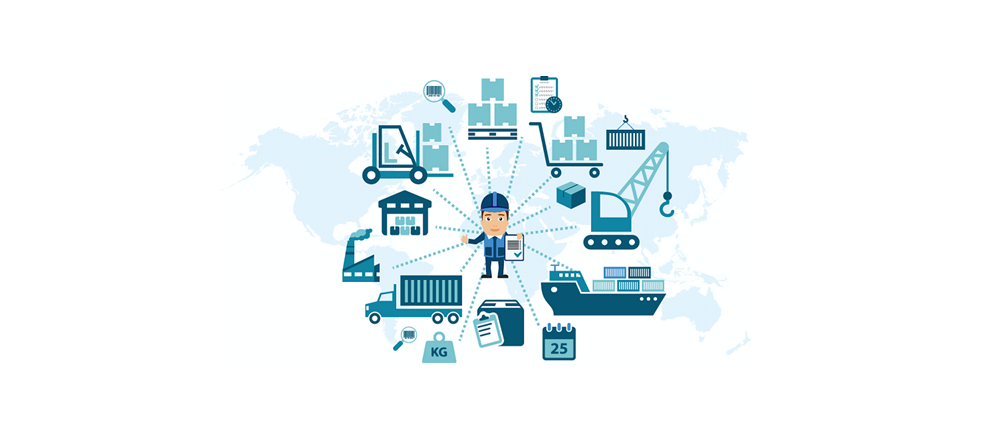
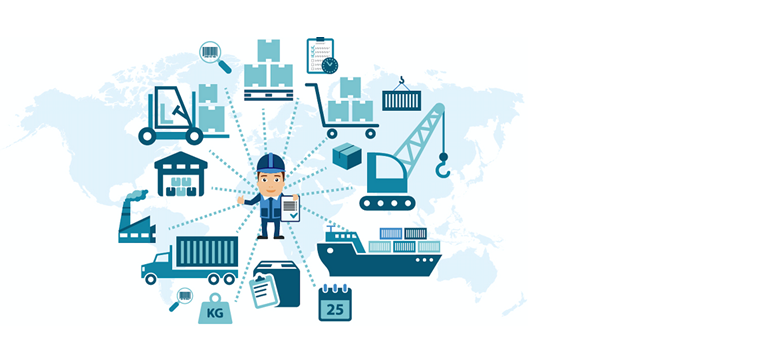
Cambio tamaño imagen de nosotros, cambio de imagen de servicios, cambio tamaño iconos proyecto

Changed region(s): [[0.03, 0.0872, 0.7507, 0.9593], [0.6606, 0.8721, 0.6906, 0.9012]]

diff --git a/proyectos.html b/proyectos.html
@@ -228,45 +228,45 @@
                 </div>
                 <div class="row text-center mt-5">
                     <div class=" col-md-4 mb-4 d-flex flex-column align-items-center number-box">
-                        <img src="assets/images/iconos/1.png" alt="Diseño Estructural" class="img-fluid w-25">
+                        <img src="assets/images/iconos/1.png" alt="Diseño Estructural" class="img-fluid" style="width: 70px; height: 70px;">
                         <h5 class="text-white mt-3 text-center">DISEÑO ESTRUCTURAL</h5>
                     </div>
                     <div class=" col-md-4 mb-4 d-flex flex-column align-items-center number-box">
-                        <img src="assets/images/iconos/11.png" alt="Revisión de Diseño" class="img-fluid w-25">
+                        <img src="assets/images/iconos/11.png" alt="Revisión de Diseño" class="img-fluid" style="width: 70px; height: 70px;">
                         <h5 class="text-white mt-3 text-center">REVISIÓN DE DISEÑO</h5>
                     </div>
                     <div class=" col-md-4 mb-4 d-flex flex-column align-items-center number-box">
-                        <img src="assets/images/iconos/3.png" alt="Pruebas de Carga" class="img-fluid w-25">
+                        <img src="assets/images/iconos/3.png" alt="Pruebas de Carga" class="img-fluid" style="width: 70px; height: 70px;">
                         <h5 class="text-white mt-3 text-center">PRUEBAS DE CARGA</h5>
                     </div>
                 </div>
         
                 <div class="row text-center mt-4">
                     <div class=" col-md-4 mb-4 d-flex flex-column align-items-center number-box">
-                        <img src="assets/images/iconos/4.png" alt="Prototipos y Aprobación" class="img-fluid w-25">
+                        <img src="assets/images/iconos/4.png" alt="Prototipos y Aprobación" class="img-fluid" style="width: 70px; height: 70px;">
                         <h5 class="text-white mt-3 text-center">PROTOTIPOS Y APROBACIÓN FABRICACIÓN</h5>
                     </div>
                     <div class=" col-md-4 mb-4 d-flex flex-column align-items-center number-box">
-                        <img src="assets/images/iconos/5.png" alt="Supervisión en Fábrica y FAT" class="img-fluid w-25">
+                        <img src="assets/images/iconos/5.png" alt="Supervisión en Fábrica y FAT" class="img-fluid" style="width: 70px; height: 70px;">
                         <h5 class="text-white mt-3 text-center">SUPERVISIÓN EN FÁBRICA Y FAT</h5>
                     </div>
                     <div class=" col-md-4 mb-4 d-flex flex-column align-items-center number-box">
-                        <img src="assets/images/iconos/6.png" alt="Control Logístico" class="img-fluid w-25">
+                        <img src="assets/images/iconos/6.png" alt="Control Logístico" class="img-fluid" style="width: 70px; height: 70px;">
                         <h5 class="text-white mt-3 text-center">CONTROL LOGÍSTICO</h5>
                     </div>
                 </div>
         
                 <div class="row text-center mt-4">
                     <div class=" col-md-4 mb-4 d-flex flex-column align-items-center number-box">
-                        <img src="assets/images/iconos/7.png" alt="Recepción y Manejo de Patio" class="img-fluid w-25">
+                        <img src="assets/images/iconos/7.png" alt="Recepción y Manejo de Patio" class="img-fluid" style="width: 70px; height: 70px;">
                         <h5 class="text-white mt-3 text-center">RECEPCIÓN, MANEJO DE PATIO Y ENTREGAS</h5>
                     </div>
                     <div class=" col-md-4 mb-4 d-flex flex-column align-items-center number-box">
-                        <img src="assets/images/iconos/8.png" alt="Pruebas Tipo Materiales" class="img-fluid w-25">
+                        <img src="assets/images/iconos/8.png" alt="Pruebas Tipo Materiales" class="img-fluid" style="width: 70px; height: 70px;">
                         <h5 class="text-white mt-3 text-center">PRUEBAS TIPO MATERIALES</h5>
                     </div>
                     <div class=" col-md-4 mb-4 d-flex flex-column align-items-center number-box">
-                        <img src="assets/images/iconos/9.png" alt="Auditoría Fábricas" class="img-fluid w-25">
+                        <img src="assets/images/iconos/9.png" alt="Auditoría Fábricas" class="img-fluid" style="width: 70px; height: 70px;">
                         <h5 class="text-white mt-3 text-center">AUDITORÍA FÁBRICAS</h5>
                     </div>
                 </div>
@@ -708,7 +708,7 @@
                     <div class="col-12 col-sm-6 isotope-item img-gallery" data-filters="branding">
                         <a class="card card-portfolio card-overlay card-hover-appearance text-white text-center card-image-md" onclick="openFulImg(this.querySelector('img').src)">
                             <span class="card-img" style="position: relative;">
-                                <img class="proyecto-img" src="assets/images/Proyectos/404.jpg" alt="">
+                                <img class="proyecto-img" src="assets/images/Proyectos/8/1.jpg" alt="">
                                 <span class="background-color" style="background-color: rgba(14, 14, 14, 0.7);"></span>
                                 
                             </span>
@@ -747,7 +747,7 @@
                     <div class="col-12 col-sm-6 isotope-item img-gallery" data-filters="branding">
                         <a class="card card-portfolio card-overlay card-hover-appearance text-white text-center card-image-md" onclick="openFulImg(this.querySelector('img').src)">
                             <span class="card-img" style="position: relative;">
-                                <img class="proyecto-img" src="assets/images/Proyectos/404.jpg" alt="">
+                                <img class="proyecto-img" src="assets/images/Proyectos/8/1.jpg" alt="">
                                 <span class="background-color" style="background-color: rgba(14, 14, 14, 0.7);"></span>
                                 
                             </span>
@@ -786,7 +786,7 @@
                     <div class="col-12 col-sm-6 isotope-item img-gallery" data-filters="branding">
                         <a class="card card-portfolio card-overlay card-hover-appearance text-white text-center card-image-md" onclick="openFulImg(this.querySelector('img').src)">
                             <span class="card-img" style="position: relative;">
-                                <img class="proyecto-img" src="assets/images/Proyectos/404.jpg" alt="">
+                                <img class="proyecto-img" src="assets/images/Proyectos/8/1.jpg" alt="">
                                 <span class="background-color" style="background-color: rgba(14, 14, 14, 0.7);"></span>
                                 
                             </span>
@@ -825,7 +825,7 @@
                     <div class="col-12 col-sm-6 isotope-item img-gallery" data-filters="branding">
                         <a class="card card-portfolio card-overlay card-hover-appearance text-white text-center card-image-md" onclick="openFulImg(this.querySelector('img').src)">
                             <span class="card-img" style="position: relative;">
-                                <img class="proyecto-img" src="assets/images/Proyectos/404.jpg" alt="">
+                                <img class="proyecto-img" src="assets/images/Proyectos/8/1.jpg" alt="">
                                 <span class="background-color" style="background-color: rgba(14, 14, 14, 0.7);"></span>
                                 
                             </span>
@@ -865,7 +865,7 @@
                     <div class="col-12 col-sm-6 isotope-item img-gallery" data-filters="branding">
                         <a class="card card-portfolio card-overlay card-hover-appearance text-white text-center card-image-md" onclick="openFulImg(this.querySelector('img').src)">
                             <span class="card-img" style="position: relative;">
-                                <img class="proyecto-img" src="assets/images/Proyectos/404.jpg" alt="">
+                                <img class="proyecto-img" src="assets/images/Proyectos/8/1.jpg" alt="">
                                 <span class="background-color" style="background-color: rgba(14, 14, 14, 0.7);"></span>
                                 
                             </span>
@@ -904,7 +904,7 @@
                     <div class="col-12 col-sm-6 isotope-item img-gallery" data-filters="branding">
                         <a class="card card-portfolio card-overlay card-hover-appearance text-white text-center card-image-md" onclick="openFulImg(this.querySelector('img').src)">
                             <span class="card-img" style="position: relative;">
-                                <img class="proyecto-img" src="assets/images/Proyectos/404.jpg" alt="">
+                                <img class="proyecto-img" src="assets/images/Proyectos/8/1.jpg" alt="">
                                 <span class="background-color" style="background-color: rgba(14, 14, 14, 0.7);"></span>
                                 
                             </span>
@@ -1133,7 +1133,7 @@
                     <div class="col-12 col-sm-6 isotope-item img-gallery" data-filters="branding">
                         <a class="card card-portfolio card-overlay card-hover-appearance text-white text-center card-image-md" onclick="openFulImg(this.querySelector('img').src)">
                             <span class="card-img" style="position: relative;">
-                                <img class="proyecto-img" src="assets/images/Proyectos/404.jpg" alt="">
+                                <img class="proyecto-img" src="assets/images/Proyectos/8/1.jpg" alt="">
                                 <span class="background-color" style="background-color: rgba(14, 14, 14, 0.7);"></span>
                                 
                             </span>
@@ -1172,7 +1172,7 @@
                     <div class="col-12 col-sm-6 isotope-item img-gallery" data-filters="branding">
                         <a class="card card-portfolio card-overlay card-hover-appearance text-white text-center card-image-md" onclick="openFulImg(this.querySelector('img').src)">
                             <span class="card-img" style="position: relative;">
-                                <img class="proyecto-img" src="assets/images/Proyectos/404.jpg" alt="">
+                                <img class="proyecto-img" src="assets/images/Proyectos/8/1.jpg" alt="">
                                 <span class="background-color" style="background-color: rgba(14, 14, 14, 0.7);"></span>
                                 
                             </span>
@@ -1211,7 +1211,7 @@
                     <div class="col-12 col-sm-6 isotope-item img-gallery" data-filters="branding">
                         <a class="card card-portfolio card-overlay card-hover-appearance text-white text-center card-image-md" onclick="openFulImg(this.querySelector('img').src)">
                             <span class="card-img" style="position: relative;">
-                                <img class="proyecto-img" src="assets/images/Proyectos/404.jpg" alt="">
+                                <img class="proyecto-img" src="assets/images/Proyectos/8/1.jpg" alt="">
                                 <span class="background-color" style="background-color: rgba(14, 14, 14, 0.7);"></span>
                                 
                             </span>
@@ -1250,7 +1250,7 @@
                     <div class="col-12 col-sm-6 isotope-item img-gallery" data-filters="branding">
                         <a class="card card-portfolio card-overlay card-hover-appearance text-white text-center card-image-md" onclick="openFulImg(this.querySelector('img').src)">
                             <span class="card-img" style="position: relative;">
-                                <img class="proyecto-img" src="assets/images/Proyectos/404.jpg" alt="">
+                                <img class="proyecto-img" src="assets/images/Proyectos/8/1.jpg" alt="">
                                 <span class="background-color" style="background-color: rgba(14, 14, 14, 0.7);"></span>
                                 
                             </span>
@@ -1289,7 +1289,7 @@
                     <div class="col-12 col-sm-6 isotope-item img-gallery" data-filters="branding">
                         <a class="card card-portfolio card-overlay card-hover-appearance text-white text-center card-image-md" onclick="openFulImg(this.querySelector('img').src)">
                             <span class="card-img" style="position: relative;">
-                                <img class="proyecto-img" src="assets/images/Proyectos/404.jpg" alt="">
+                                <img class="proyecto-img" src="assets/images/Proyectos/8/1.jpg" alt="">
                                 <span class="background-color" style="background-color: rgba(14, 14, 14, 0.7);"></span>
                                 
                             </span>
@@ -1328,7 +1328,7 @@
                     <div class="col-12 col-sm-6 isotope-item img-gallery" data-filters="branding">
                         <a class="card card-portfolio card-overlay card-hover-appearance text-white text-center card-image-md" onclick="openFulImg(this.querySelector('img').src)">
                             <span class="card-img" style="position: relative;">
-                                <img class="proyecto-img" src="assets/images/Proyectos/404.jpg" alt="">
+                                <img class="proyecto-img" src="assets/images/Proyectos/8/1.jpg" alt="">
                                 <span class="background-color" style="background-color: rgba(14, 14, 14, 0.7);"></span>
                                 
                             </span>

diff --git a/index.html b/index.html
@@ -291,7 +291,7 @@
                         <div class="card-wrapper h-100">
                             <a class="card card-fullscreen text-white d-flex flex-column h-100" href="nosotros.html">
                                 <span class="card-img img-inicio">
-                                    <img src="assets/images/Inicio/Pica-enhance-20250217091507.png" alt="" class="img-fluid ">
+                                    <img src="assets/images/Inicio/Pica-enhance-20250218170519.png" alt="" class="img-fluid ">
                                     <span class="background-color"
                                         style="background-color: rgba(14, 14, 14, .2);"></span>
                                 </span>
@@ -373,7 +373,7 @@
                                         style="background-color: rgba(14, 14, 14, .2);"></span>
                                 </span> -->
                                 <span class="card-img">
-                                    <img src="assets/images/Inicio/servicios2.png" alt="">
+                                    <img src="assets/images/Inicio/nosotros.png" alt="">
                                     <span class="background-color"
                                         style="background-color: rgba(14, 14, 14, .2);"></span>
                                 </span>

diff --git a/assets/css/custom.css b/assets/css/custom.css
@@ -662,7 +662,9 @@ section {
 }
 
 .services .icon-box:hover::before {
-  background: #3498db;
+  
+  /* colores card:#0979b0, #7cdaf9, #0cb7f2, rgba(99,146,225,255), rgba(60,97,173,255) */
+  background: rgba(60,97,173,255);
   right: 0;
   top: 0;
   width: 100%;
